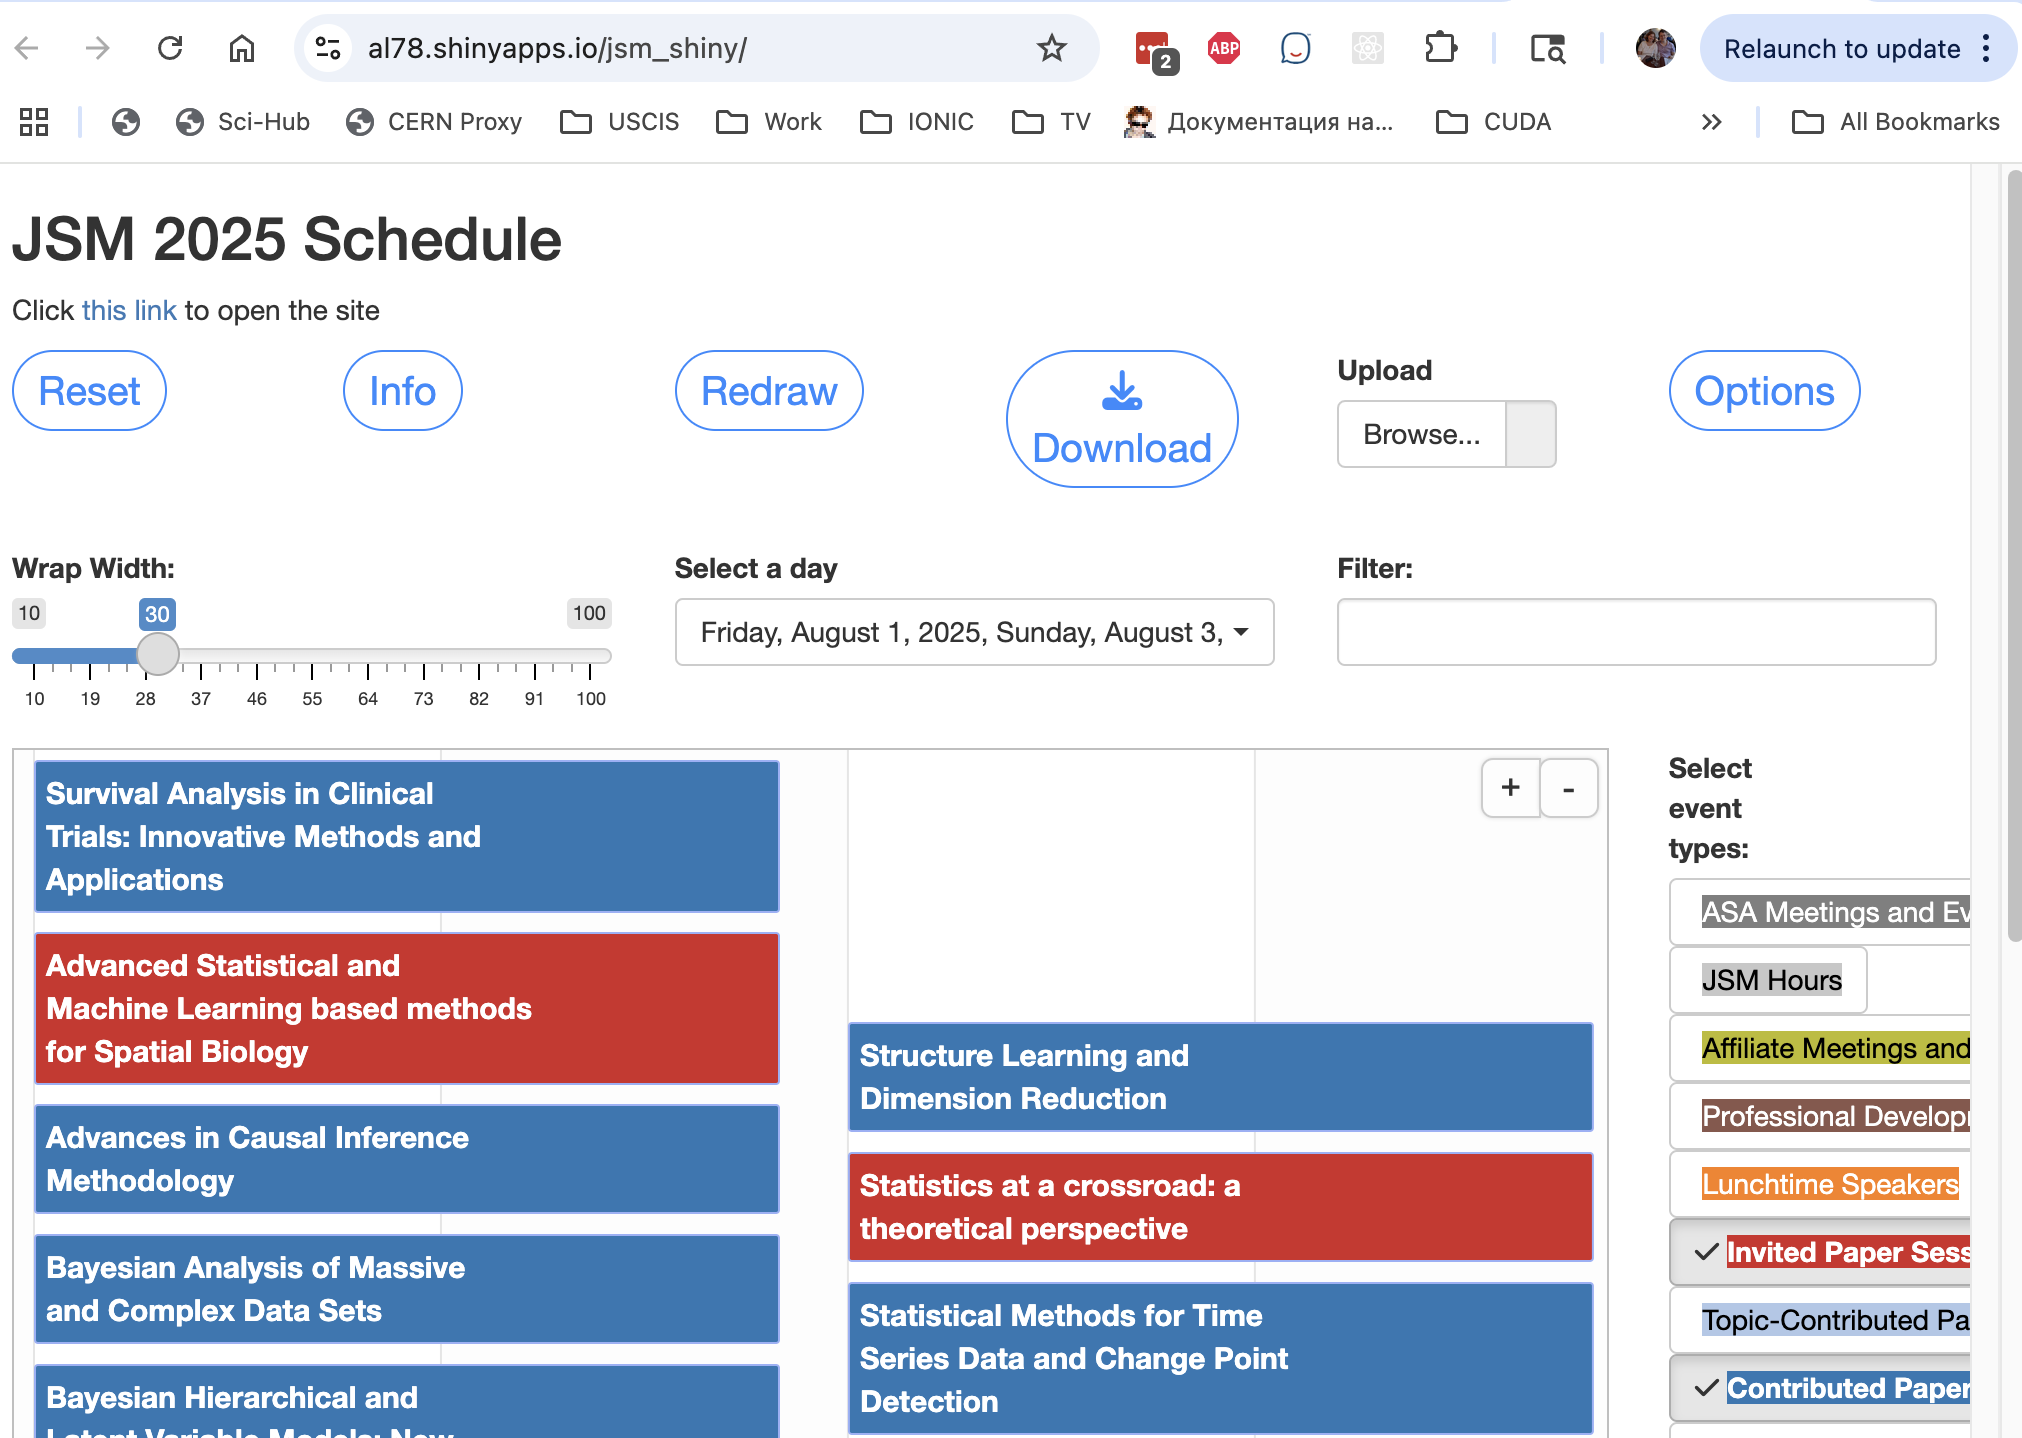
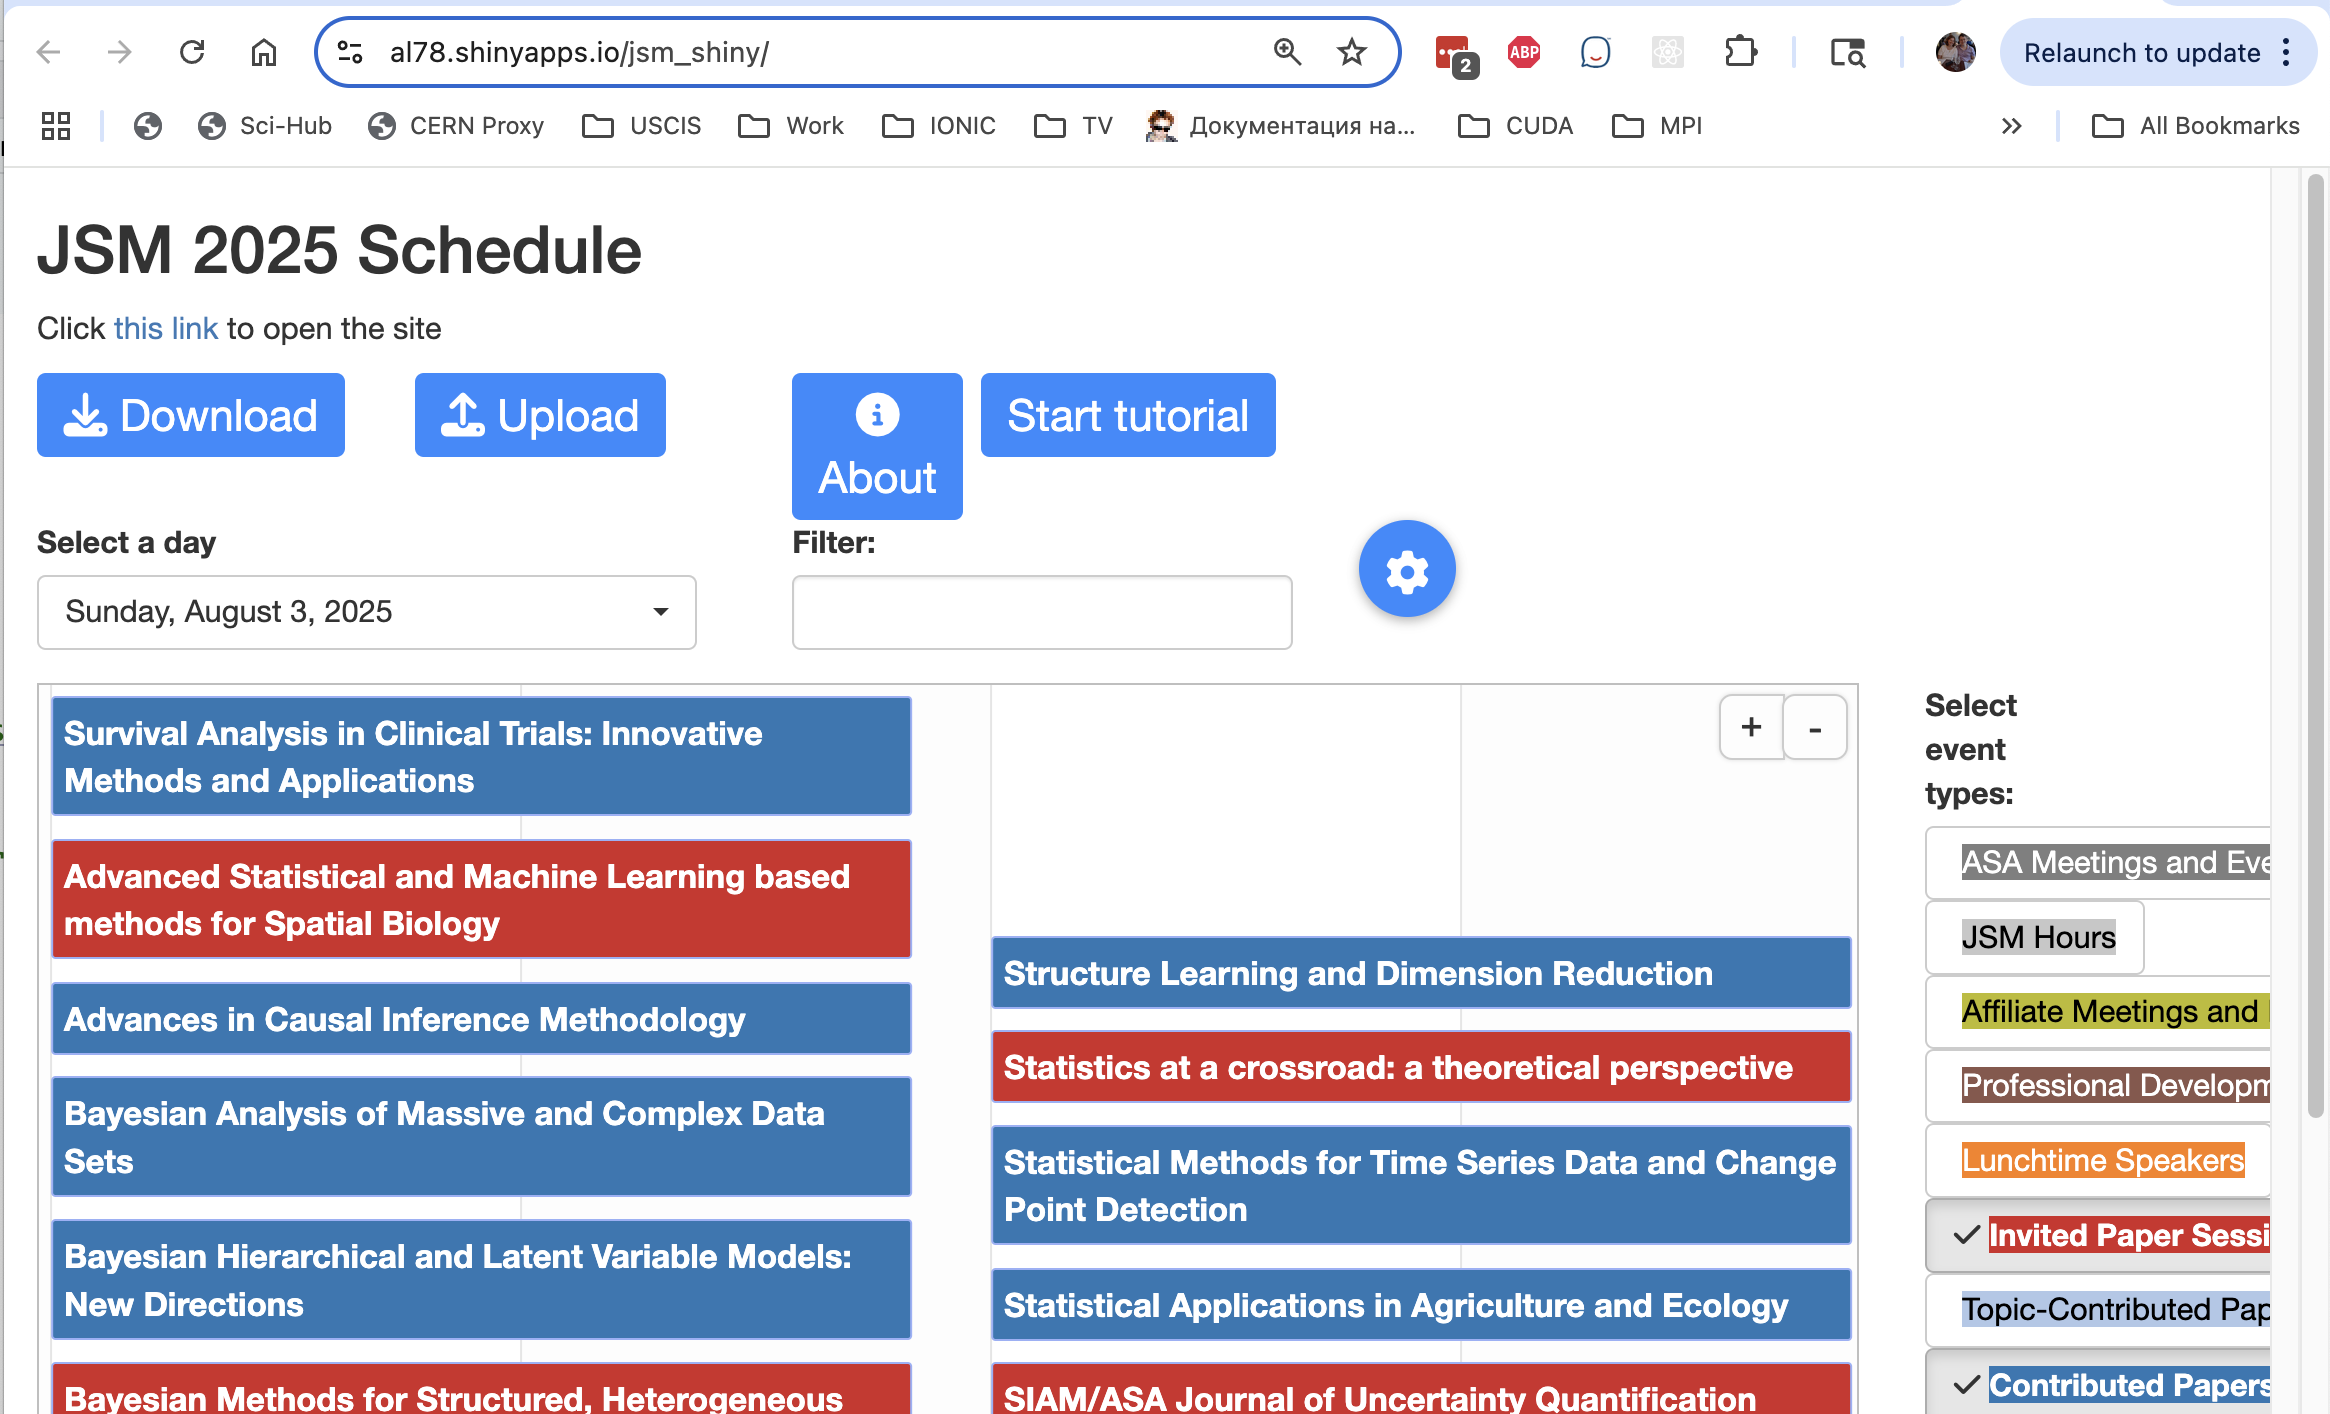
Load/Save buttons redrawn, readmes are updated

diff --git a/jsm_shiny/readme_text.md b/jsm_shiny/readme_text.md
@@ -1,5 +1,3 @@
-&copy; [Aleksei Luchinsky](http://alexey-luchinsky.com), 2025
-
 # Short Overview
 
 This [web application](https://al78.shinyapps.io/jsm_shiny/) will help you navigate the upcoming [JSM 2025 meeting](https://ww2.amstat.org/meetings/jsm/2025/). All information, obtained by scraping the official program [website](https://ww3.aievolution.com/JSMAnnual2025/Events/pubSearchOptions?style=0), is presented in a neat graphical format. You can easily select and save events you're interested in attending, filter out other sessions, inspect the details of each session, and more.
@@ -8,20 +6,19 @@ This application was created using the R Shiny framework. All the code is availa
 
 # Page Layout
 
-The typical page layout is shown in the figure below. As you can see, it consists of several blocks:
+
+The typical page layout consists of several blocks:
 
 - **Control buttons**, including:
-  - **Reset** – Resets the application state completely.
-  - **Info** – Prints some internal information to the R console. This button is for debugging purposes only and is not intended for online use.
-  - **Redraw** – Redraws the main Time Schedule region.
   - **Download** – Allows you to download a text file containing selected events.
   - **Upload** – Allows you to upload a saved file to continue your scheduling later.
-  - **Options** – Helps you choose which types of events are visible.
+  - **About** - Display information about the application (almost this text).
+  - **Start tutorial** - Shown a short interactive tutorial about the application
 
 - **Option controls**, including:
-  - **Wrap width** slider – Allows you to adjust the wrap length of the event cards.
   - **Active day selector** – Lets you choose which days to display. Note: it's possible to display several days (even all of them), but the timetable visualization may appear cluttered.
   - **Text filter input box** – Lets you filter events by title or session number.
+  - **Options** – Helps you choose which types of events are visible.
 
 - **Time Table pane** – The main part of the application. All filtered events are displayed here. More details are provided below.
 

diff --git a/README.md b/README.md
@@ -14,17 +14,15 @@ This application was created using the R Shiny framework. All the code is availa
 The typical page layout is shown in the figure below. As you can see, it consists of several blocks:
 
 - **Control buttons**, including:
-  - **Reset** – Resets the application state completely.
-  - **Info** – Prints some internal information to the R console. This button is for debugging purposes only and is not intended for online use.
-  - **Redraw** – Redraws the main Time Schedule region.
   - **Download** – Allows you to download a text file containing selected events.
   - **Upload** – Allows you to upload a saved file to continue your scheduling later.
-  - **Options** – Helps you choose which types of events are visible.
+  - **About** - Display information about the application (almost this text).
+  - **Start tutorial** - Shown a short interactive tutorial about the application
 
 - **Option controls**, including:
-  - **Wrap width** slider – Allows you to adjust the wrap length of the event cards.
   - **Active day selector** – Lets you choose which days to display. Note: it's possible to display several days (even all of them), but the timetable visualization may appear cluttered.
   - **Text filter input box** – Lets you filter events by title or session number.
+  - **Options** – Helps you choose which types of events are visible.
 
 - **Time Table pane** – The main part of the application. All filtered events are displayed here. More details are provided below.
 
